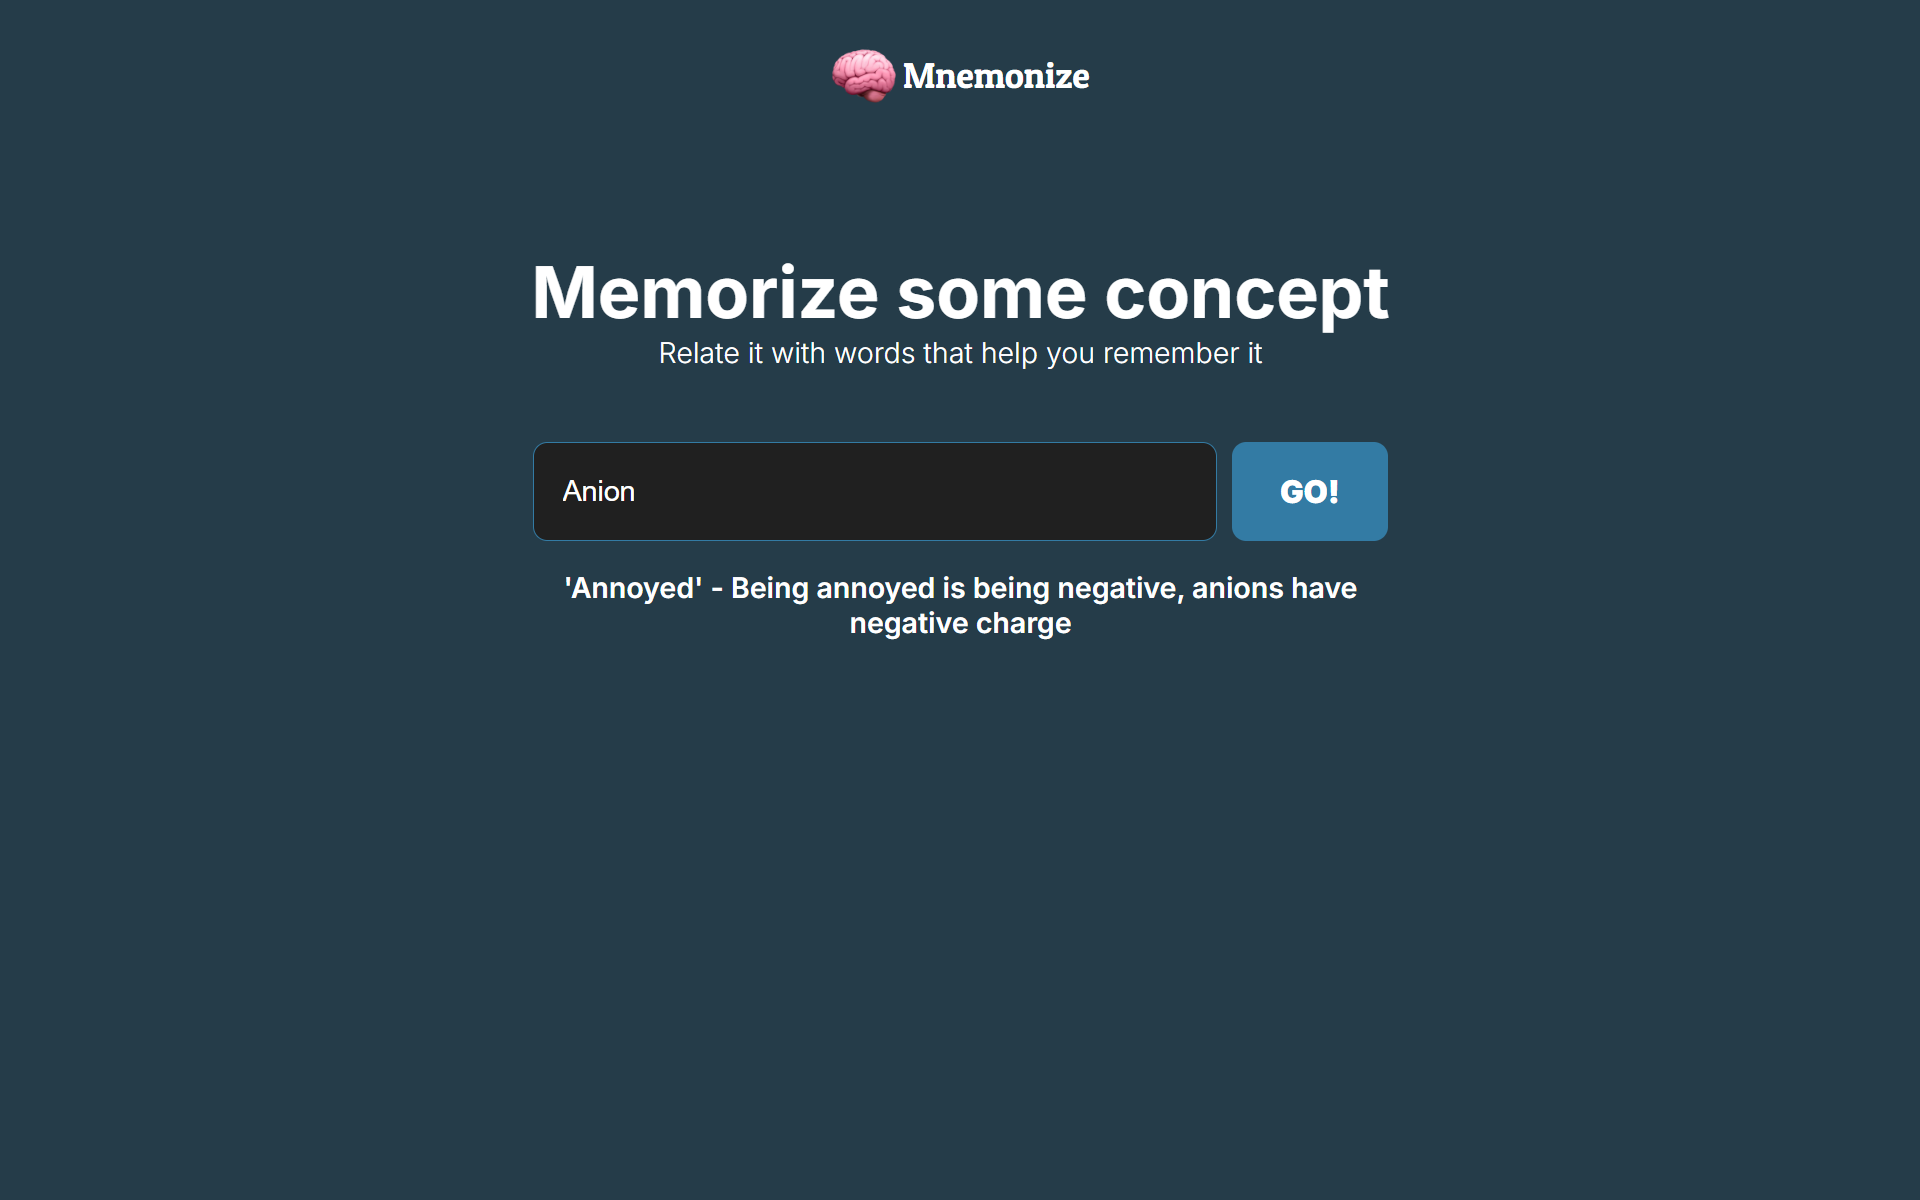
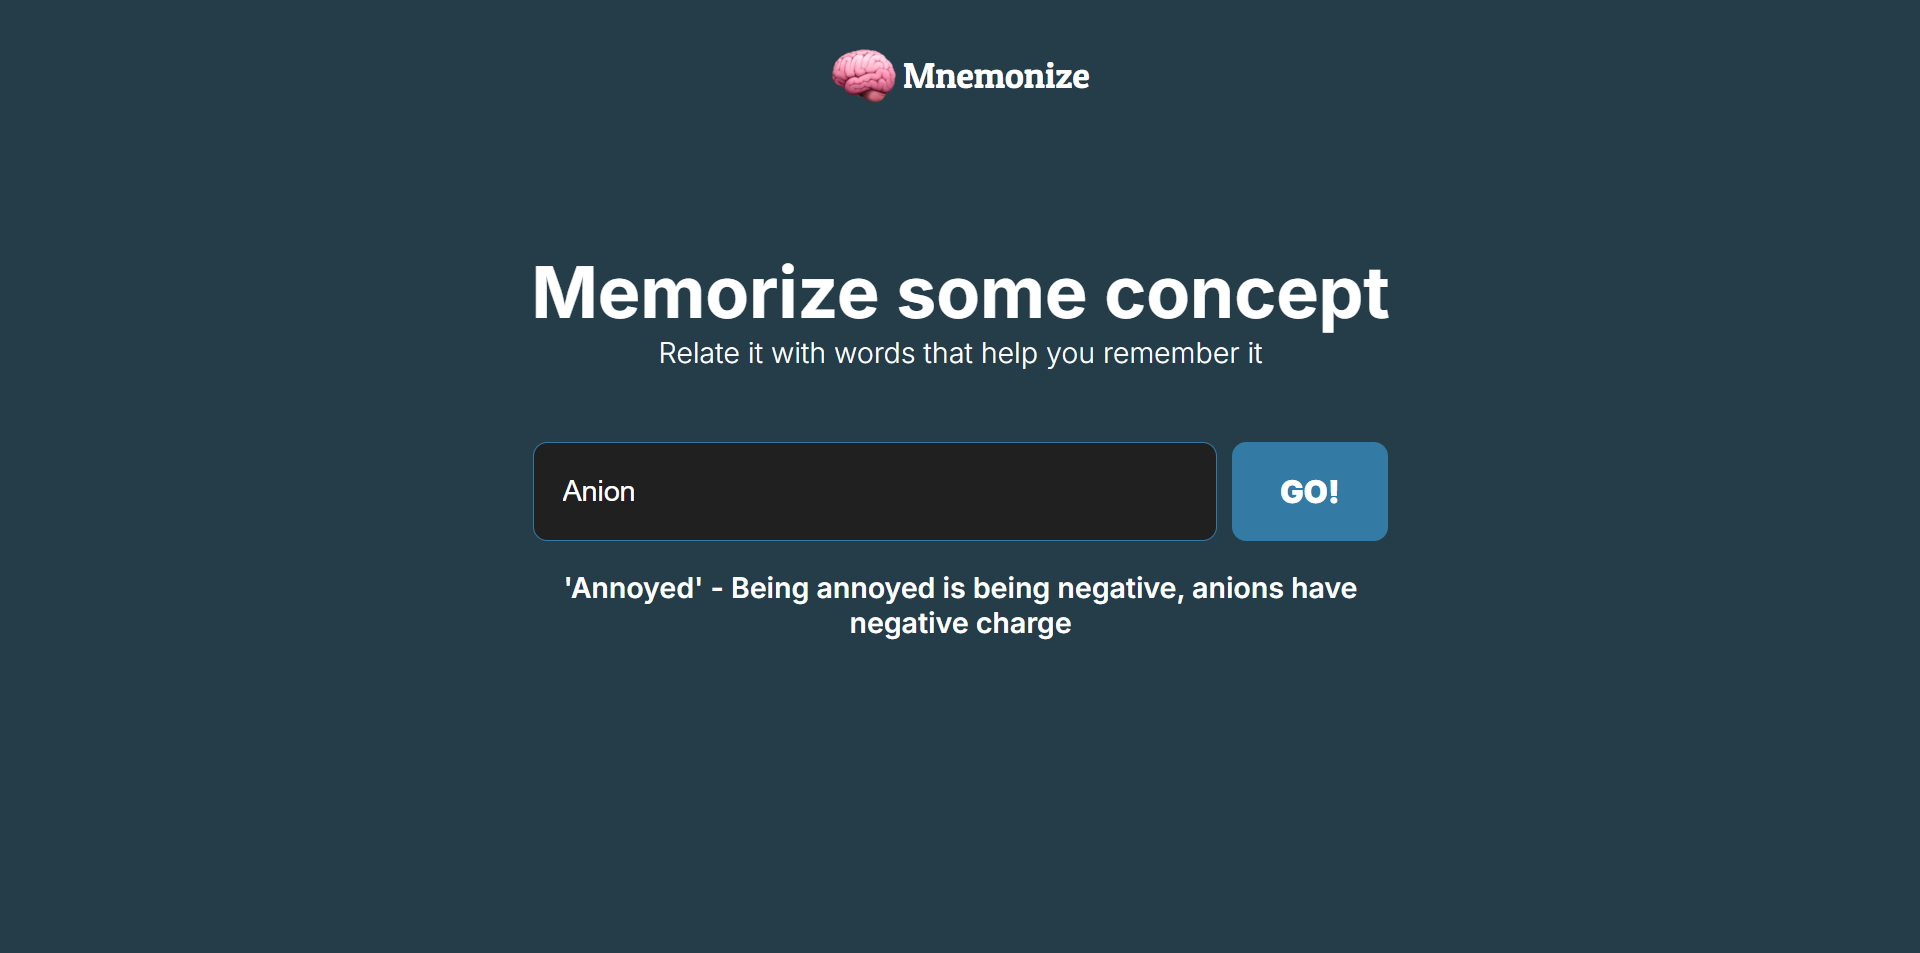
minimal changes

diff --git a/README.md b/README.md
@@ -2,7 +2,7 @@
 
 A quick look at some side projects developed over the last few years.
 
-## PA platform (2026)
+## PA Platform (2026)
 
 Web-based decision support system for the clinical management of patients with propionic acidemia (PA), developed in collaboration with the TransCOR research group at UPF. It includes visualization of key biomarkers, risk assessment calculators, and a cluster visualization tool. The latter presents the patient's trajectory over a clustered space, and allows to discover how similar patients were managed, providing novel insights for diseases with limited understanding.
 